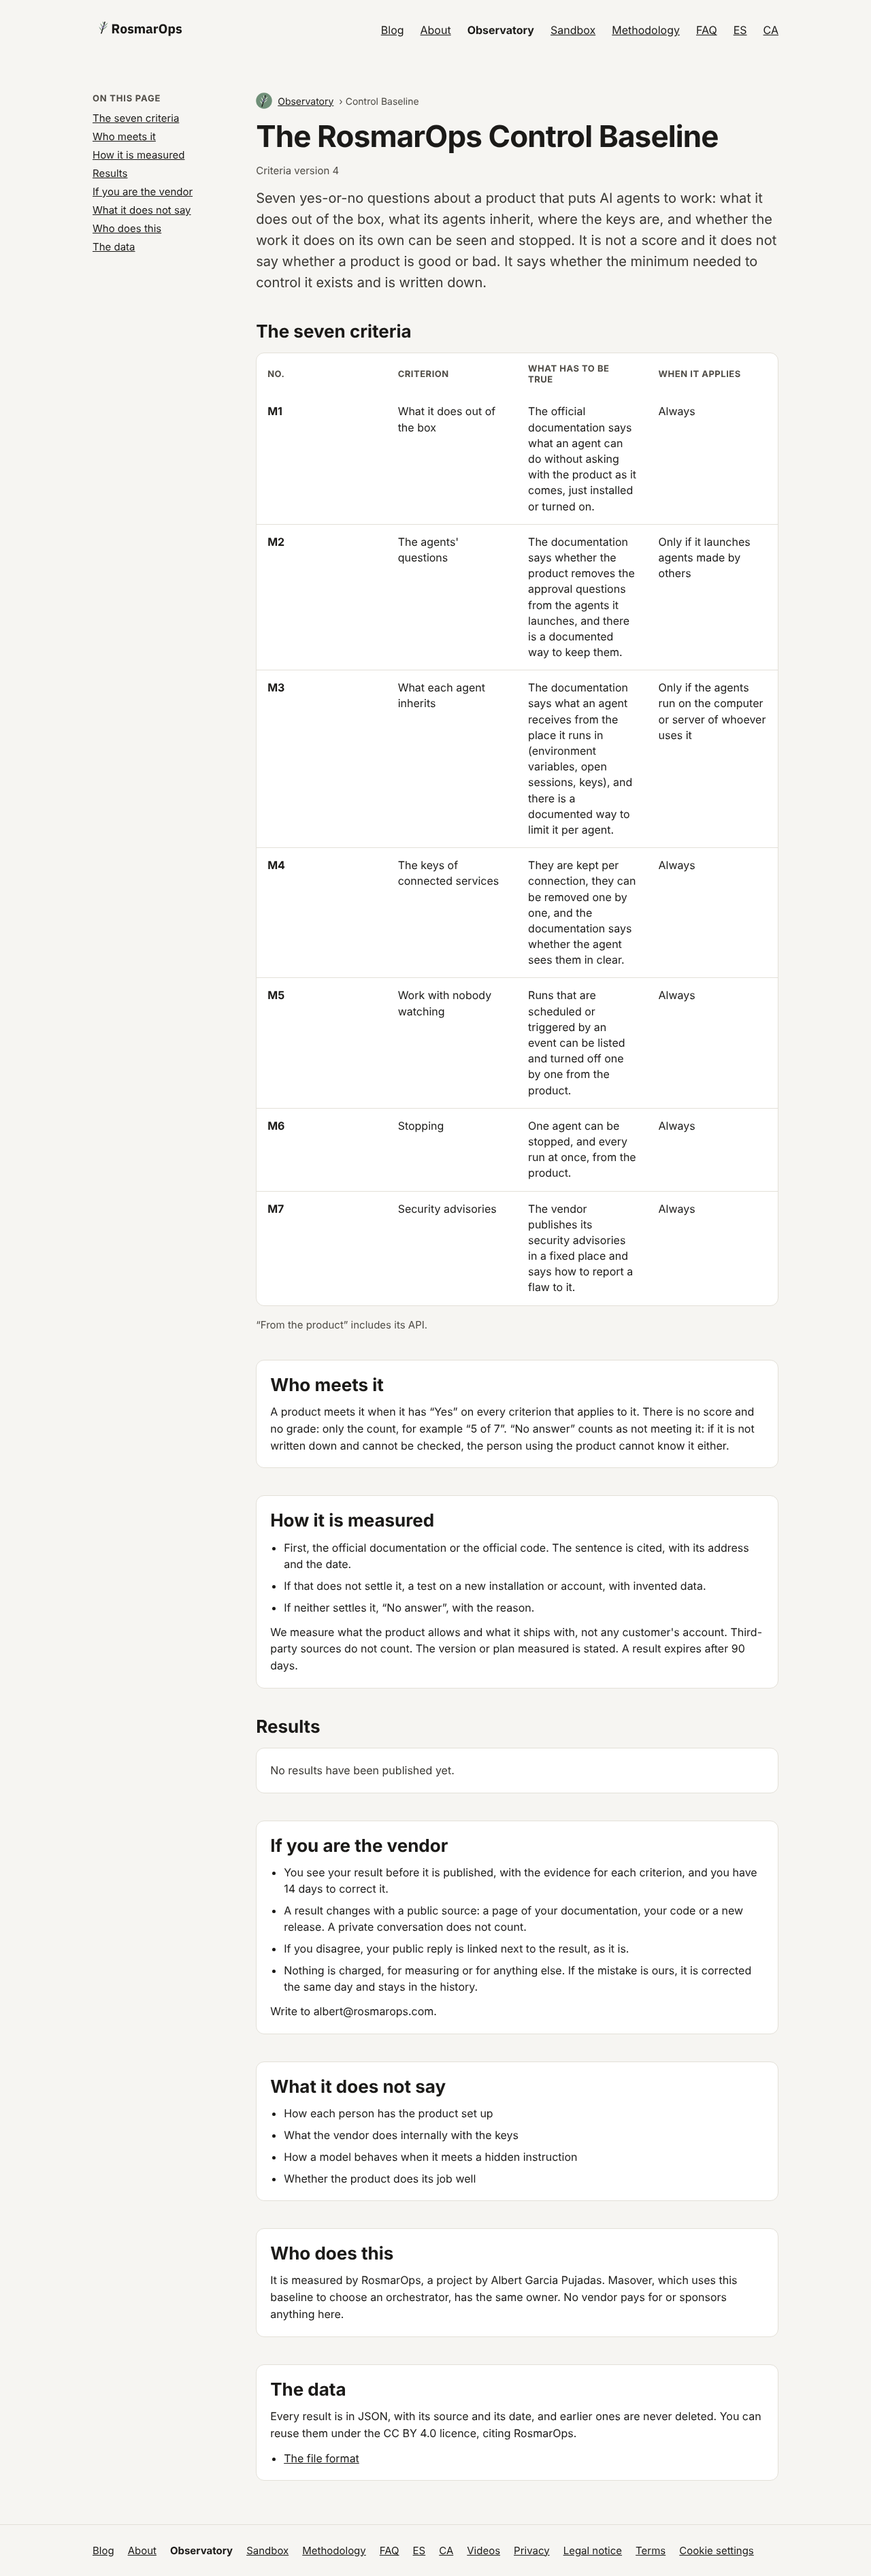
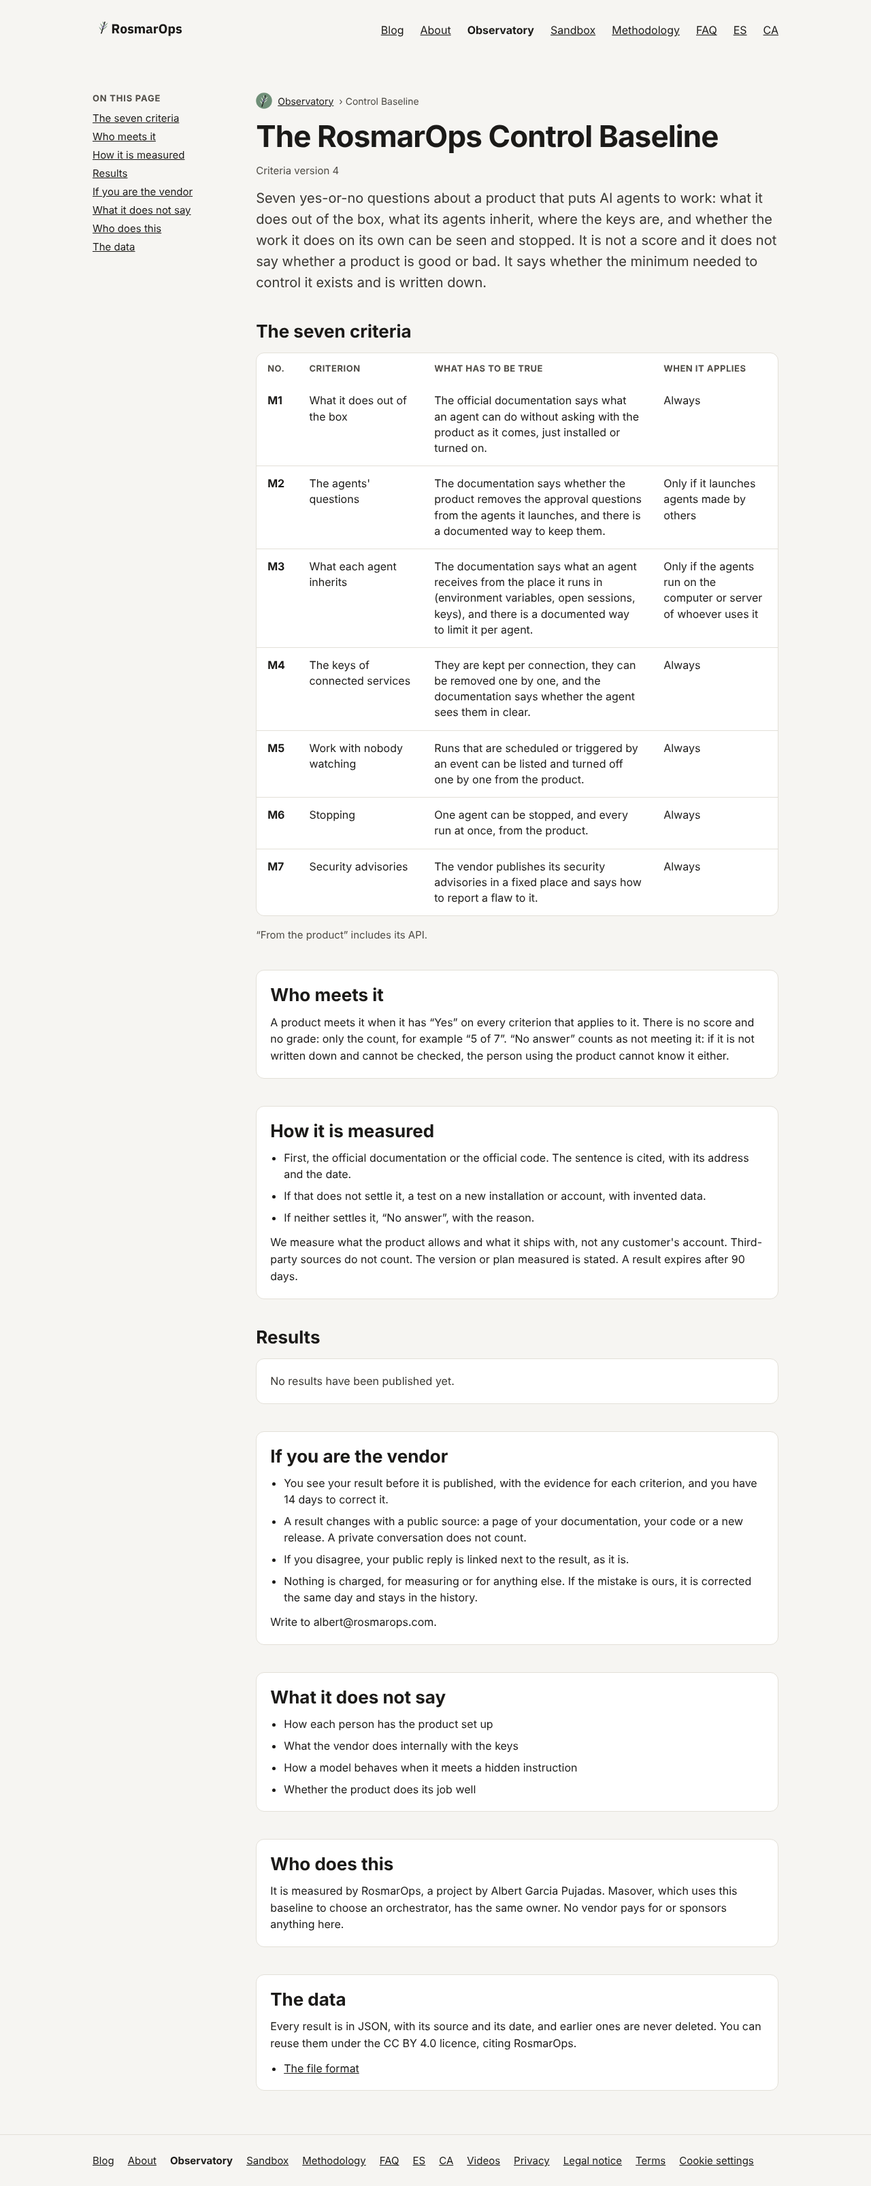
GTM-224: tres retoques al mínimo de control
Anchos 8/24/44/24 % en «Los siete criterios» desde 700 px; «—» en «Cómo se comprobó» cuando
no aplica; x.count como h2 de la caja «Resultado». Capturas rehechas.

Claude-Session: https://claude.ai/code/session_01BRBcDRtosF3jfp345kMzLw

diff --git a/site/es/observatorio/minimo-de-control/index.html b/site/es/observatorio/minimo-de-control/index.html
@@ -118,7 +118,7 @@ td:empty{display:none}}
 </section>
 <section id="criteria" aria-labelledby="criteria-h">
 <h2 id="criteria-h">Los siete criterios</h2>
-<div class="box tablebox"><table>
+<div class="box tablebox"><table><colgroup><col style="width:8%"><col style="width:24%"><col style="width:44%"><col style="width:24%"></colgroup>
 <thead><tr><th scope="col">Nº</th><th scope="col">Criterio</th><th scope="col">Qué tiene que cumplirse</th><th scope="col">Cuándo se aplica</th></tr></thead>
 <tbody><tr><th scope="row">M1</th><td data-label="Criterio">Lo que hace de fábrica</td><td data-label="Qué tiene que cumplirse">La documentación oficial dice qué puede hacer un agente sin preguntar tal como viene el producto, recién instalado o activado.</td><td data-label="Cuándo se aplica">Siempre</td></tr><tr><th scope="row">M2</th><td data-label="Criterio">Las preguntas de los agentes</td><td data-label="Qué tiene que cumplirse">La documentación dice si el producto quita las preguntas de aprobación a los agentes que lanza, y hay una forma documentada de que las conserven.</td><td data-label="Cuándo se aplica">Solo si lanza agentes hechos por otros</td></tr><tr><th scope="row">M3</th><td data-label="Criterio">Lo que hereda cada agente</td><td data-label="Qué tiene que cumplirse">La documentación dice qué recibe un agente del sitio donde corre (variables de entorno, sesiones abiertas, claves), y hay una forma documentada de limitarlo por agente.</td><td data-label="Cuándo se aplica">Solo si los agentes corren en el ordenador o el servidor de quien lo usa</td></tr><tr><th scope="row">M4</th><td data-label="Criterio">Las claves de los servicios conectados</td><td data-label="Qué tiene que cumplirse">Se guardan por conexión, se pueden retirar una a una, y la documentación dice si el agente las ve en claro.</td><td data-label="Cuándo se aplica">Siempre</td></tr><tr><th scope="row">M5</th><td data-label="Criterio">El trabajo sin nadie delante</td><td data-label="Qué tiene que cumplirse">Las ejecuciones programadas o disparadas por un evento se pueden listar y desactivar una a una desde el producto.</td><td data-label="Cuándo se aplica">Siempre</td></tr><tr><th scope="row">M6</th><td data-label="Criterio">Parar</td><td data-label="Qué tiene que cumplirse">Se puede parar un agente, y todas las ejecuciones a la vez, desde el producto.</td><td data-label="Cuándo se aplica">Siempre</td></tr><tr><th scope="row">M7</th><td data-label="Criterio">Avisos de seguridad</td><td data-label="Qué tiene que cumplirse">El fabricante publica sus avisos de seguridad en un sitio fijo y dice cómo comunicarle un fallo.</td><td data-label="Cuándo se aplica">Siempre</td></tr></tbody></table></div>
 <p class="note">«Desde el producto» incluye su API.</p>

diff --git a/site/observatory/control-baseline/index.html b/site/observatory/control-baseline/index.html
@@ -118,7 +118,7 @@ td:empty{display:none}}
 </section>
 <section id="criteria" aria-labelledby="criteria-h">
 <h2 id="criteria-h">The seven criteria</h2>
-<div class="box tablebox"><table>
+<div class="box tablebox"><table><colgroup><col style="width:8%"><col style="width:24%"><col style="width:44%"><col style="width:24%"></colgroup>
 <thead><tr><th scope="col">No.</th><th scope="col">Criterion</th><th scope="col">What has to be true</th><th scope="col">When it applies</th></tr></thead>
 <tbody><tr><th scope="row">M1</th><td data-label="Criterion">What it does out of the box</td><td data-label="What has to be true">The official documentation says what an agent can do without asking with the product as it comes, just installed or turned on.</td><td data-label="When it applies">Always</td></tr><tr><th scope="row">M2</th><td data-label="Criterion">The agents&#x27; questions</td><td data-label="What has to be true">The documentation says whether the product removes the approval questions from the agents it launches, and there is a documented way to keep them.</td><td data-label="When it applies">Only if it launches agents made by others</td></tr><tr><th scope="row">M3</th><td data-label="Criterion">What each agent inherits</td><td data-label="What has to be true">The documentation says what an agent receives from the place it runs in (environment variables, open sessions, keys), and there is a documented way to limit it per agent.</td><td data-label="When it applies">Only if the agents run on the computer or server of whoever uses it</td></tr><tr><th scope="row">M4</th><td data-label="Criterion">The keys of connected services</td><td data-label="What has to be true">They are kept per connection, they can be removed one by one, and the documentation says whether the agent sees them in clear.</td><td data-label="When it applies">Always</td></tr><tr><th scope="row">M5</th><td data-label="Criterion">Work with nobody watching</td><td data-label="What has to be true">Runs that are scheduled or triggered by an event can be listed and turned off one by one from the product.</td><td data-label="When it applies">Always</td></tr><tr><th scope="row">M6</th><td data-label="Criterion">Stopping</td><td data-label="What has to be true">One agent can be stopped, and every run at once, from the product.</td><td data-label="When it applies">Always</td></tr><tr><th scope="row">M7</th><td data-label="Criterion">Security advisories</td><td data-label="What has to be true">The vendor publishes its security advisories in a fixed place and says how to report a flaw to it.</td><td data-label="When it applies">Always</td></tr></tbody></table></div>
 <p class="note">“From the product” includes its API.</p>

diff --git a/site/ca/observatori/minim-de-control/index.html b/site/ca/observatori/minim-de-control/index.html
@@ -118,7 +118,7 @@ td:empty{display:none}}
 </section>
 <section id="criteria" aria-labelledby="criteria-h">
 <h2 id="criteria-h">Els set criteris</h2>
-<div class="box tablebox"><table>
+<div class="box tablebox"><table><colgroup><col style="width:8%"><col style="width:24%"><col style="width:44%"><col style="width:24%"></colgroup>
 <thead><tr><th scope="col">Núm.</th><th scope="col">Criteri</th><th scope="col">Què s'ha de complir</th><th scope="col">Quan s'aplica</th></tr></thead>
 <tbody><tr><th scope="row">M1</th><td data-label="Criteri">Què fa de fàbrica</td><td data-label="Què s'ha de complir">La documentació oficial diu què pot fer un agent sense preguntar tal com ve el producte, acabat d&#x27;instal·lar o d&#x27;activar.</td><td data-label="Quan s'aplica">Sempre</td></tr><tr><th scope="row">M2</th><td data-label="Criteri">Les preguntes dels agents</td><td data-label="Què s'ha de complir">La documentació diu si el producte treu les preguntes d&#x27;aprovació als agents que llança, i hi ha una manera documentada que les conservin.</td><td data-label="Quan s'aplica">Només si llança agents fets per altres</td></tr><tr><th scope="row">M3</th><td data-label="Criteri">Què hereta cada agent</td><td data-label="Què s'ha de complir">La documentació diu què rep un agent del lloc on corre (variables d&#x27;entorn, sessions obertes, claus), i hi ha una manera documentada de limitar-ho per agent.</td><td data-label="Quan s'aplica">Només si els agents corren a l&#x27;ordinador o al servidor de qui el fa servir</td></tr><tr><th scope="row">M4</th><td data-label="Criteri">Les claus dels serveis connectats</td><td data-label="Què s'ha de complir">Es desen per connexió, es poden retirar una a una, i la documentació diu si l&#x27;agent les veu en clar.</td><td data-label="Quan s'aplica">Sempre</td></tr><tr><th scope="row">M5</th><td data-label="Criteri">La feina sense ningú davant</td><td data-label="Què s'ha de complir">Les execucions programades o disparades per un esdeveniment es poden llistar i desactivar una a una des del producte.</td><td data-label="Quan s'aplica">Sempre</td></tr><tr><th scope="row">M6</th><td data-label="Criteri">Aturar</td><td data-label="Què s'ha de complir">Es pot aturar un agent, i totes les execucions alhora, des del producte.</td><td data-label="Quan s'aplica">Sempre</td></tr><tr><th scope="row">M7</th><td data-label="Criteri">Avisos de seguretat</td><td data-label="Què s'ha de complir">El fabricant publica els seus avisos de seguretat en un lloc fix i diu com comunicar-li una fallada.</td><td data-label="Quan s'aplica">Sempre</td></tr></tbody></table></div>
 <p class="note">«Des del producte» inclou la seva API.</p>

diff --git a/observatory/build.py b/observatory/build.py
@@ -1296,13 +1296,15 @@ def min_toc(t, items):
     return f'<nav class="toc" aria-label="{t("agent.toc")}"><p>{t("agent.toc")}</p>' + "".join(f'<a href="#{h}">{t(k)}</a>' for h, k in items) + "</nav>"
 
 
-def min_table(heads, rows):
-    """A table with the Observatory's own component: the header cells are reused as data-label for 390."""
+def min_table(heads, rows, widths=None):
+    """A table with the Observatory's own component: the header cells are reused as data-label for 390. widths (in %)
+    go in a colgroup like the agent pages' tables, which the CSS ignores below 700 px."""
     th = "".join(f'<th scope="col">{h}</th>' for h in heads)
+    cols = ("<colgroup>" + "".join(f'<col style="width:{w}%">' for w in widths) + "</colgroup>") if widths else ""
     body = ""
     for r in rows:
         body += "<tr>" + f'<th scope="row">{r[0]}</th>' + "".join(f'<td data-label="{heads[i + 1]}">{c}</td>' for i, c in enumerate(r[1:])) + "</tr>"
-    return f'<div class="box tablebox"><table>\n<thead><tr>{th}</tr></thead>\n<tbody>{body}</tbody></table></div>'
+    return f'<div class="box tablebox"><table>{cols}\n<thead><tr>{th}</tr></thead>\n<tbody>{body}</tbody></table></div>'
 
 
 def min_breadcrumbs(lang, t, items):
@@ -1323,6 +1325,7 @@ def build_min_criterion(lang, t):
     crit = min_table(
         t.raw("minimum.c.th").split(" · "),
         [[cid, k(cid + ".name"), k(cid + ".text"), k(when.get(cid, "when.always"))] for cid in minimum.IDS],
+        widths=(8, 24, 44, 24),  # GTM-224 point 1, from 700 px
     )
     if latest:
         rows = []
@@ -1402,7 +1405,7 @@ def build_min_result(lang, t, rid, history):
     missing = r["total"] - r["met"]
     verdict = k("x.pass") if r["passes"] else (k("x.fail.one") if missing == 1 else k("x.fail", k=str(missing)))
     summary = (f'<div class="box panel summary"><p class="eyebrow">{k("x.eyebrow")}</p>'
-               f'<p>{k("x.count", n=str(r["met"]), t=str(r["total"]))}</p><p>{verdict}</p><p>{k("x.what")}</p></div>')
+               f'<h2>{k("x.count", n=str(r["met"]), t=str(r["total"]))}</h2><p>{verdict}</p><p>{k("x.what")}</p></div>')  # GTM-224 point 3
 
     def ev_link(x):
         return f' <a href="{esc(x["evidence_url"])}" rel="noopener">{k("ev.link", fecha=t.date(x["accessed_at"]))}</a>' if x.get("evidence_url") else ""
@@ -1420,7 +1423,8 @@ def build_min_result(lang, t, rid, history):
                   + f'<br><span lang="en">{esc(c["unknown_reason"])}</span></span>')  # one child, so the 390 layout keeps it in one cell
         else:
             ev = ev_link(c).strip()
-        rows.append([f'{c["id"]} · {k(c["id"] + ".name")}', f'<strong>{k(res_key[c["result"]])}</strong>', k(how_key[c["how"]]), ev])
+        how = k("ev.na") if c["result"] == "not_applicable" else k(how_key[c["how"]])  # GTM-224 point 2
+        rows.append([f'{c["id"]} · {k(c["id"] + ".name")}', f'<strong>{k(res_key[c["result"]])}</strong>', how, ev])
     table = min_table(t.raw("minimum.t.th").split(" · "), rows)
     v = r["vendor"]
     links = []

diff --git a/observatory/tests/test_minimum.py b/observatory/tests/test_minimum.py
@@ -251,6 +251,29 @@ class Pages(unittest.TestCase):
         finally:
             shutil.rmtree(tmp)
 
+    def test_gtm224_criteria_widths(self):
+        """GTM-224 point 1: 8, 24, 44 and 24 % from 700 px (the colgroup, which the CSS hides below 700 px)."""
+        for lang in ("en", "es", "ca"):
+            crit = self.page(lang).split('id="criteria-h"')[1].split("</section>")[0]
+            self.assertIn('<colgroup><col style="width:8%"><col style="width:24%"><col style="width:44%"><col style="width:24%"></colgroup>', crit)
+
+    def test_gtm224_not_applicable_how_is_a_dash(self):
+        """GTM-224 point 2: «No aplica» has «—» in «How it was checked», like in «Evidence»."""
+        for lang in ("en", "es", "ca"):
+            c, s = cat(lang), self.page(lang, "example-builder-cloud")
+            na = html.escape(c["minimum.res.na"], quote=True)
+            for row in re.findall(r"<tr>(.*?)</tr>", s):
+                if f"<strong>{na}</strong>" in row:
+                    cells = re.findall(r"<td[^>]*>(.*?)</td>", row)
+                    self.assertEqual(cells[1:], [c["minimum.ev.na"], c["minimum.ev.na"]], lang)
+
+    def test_gtm224_count_is_h2_in_the_box(self):
+        """GTM-224 point 3: x.count is the box's h2; the two other lines stay paragraphs."""
+        c, s = cat("es"), self.page("es", "example-builder-cloud")
+        box = s.split('<div class="box panel summary">')[1].split("</div>")[0]
+        self.assertIn("<h2>3 de 5 criterios</h2>", box)
+        self.assertIn(f'<p>{html.escape(c["minimum.x.what"], quote=True)}</p>', box)
+
     def test_english_quotes_are_curly(self):
         for k, v in cat("en").items():
             if k.startswith("minimum."):
